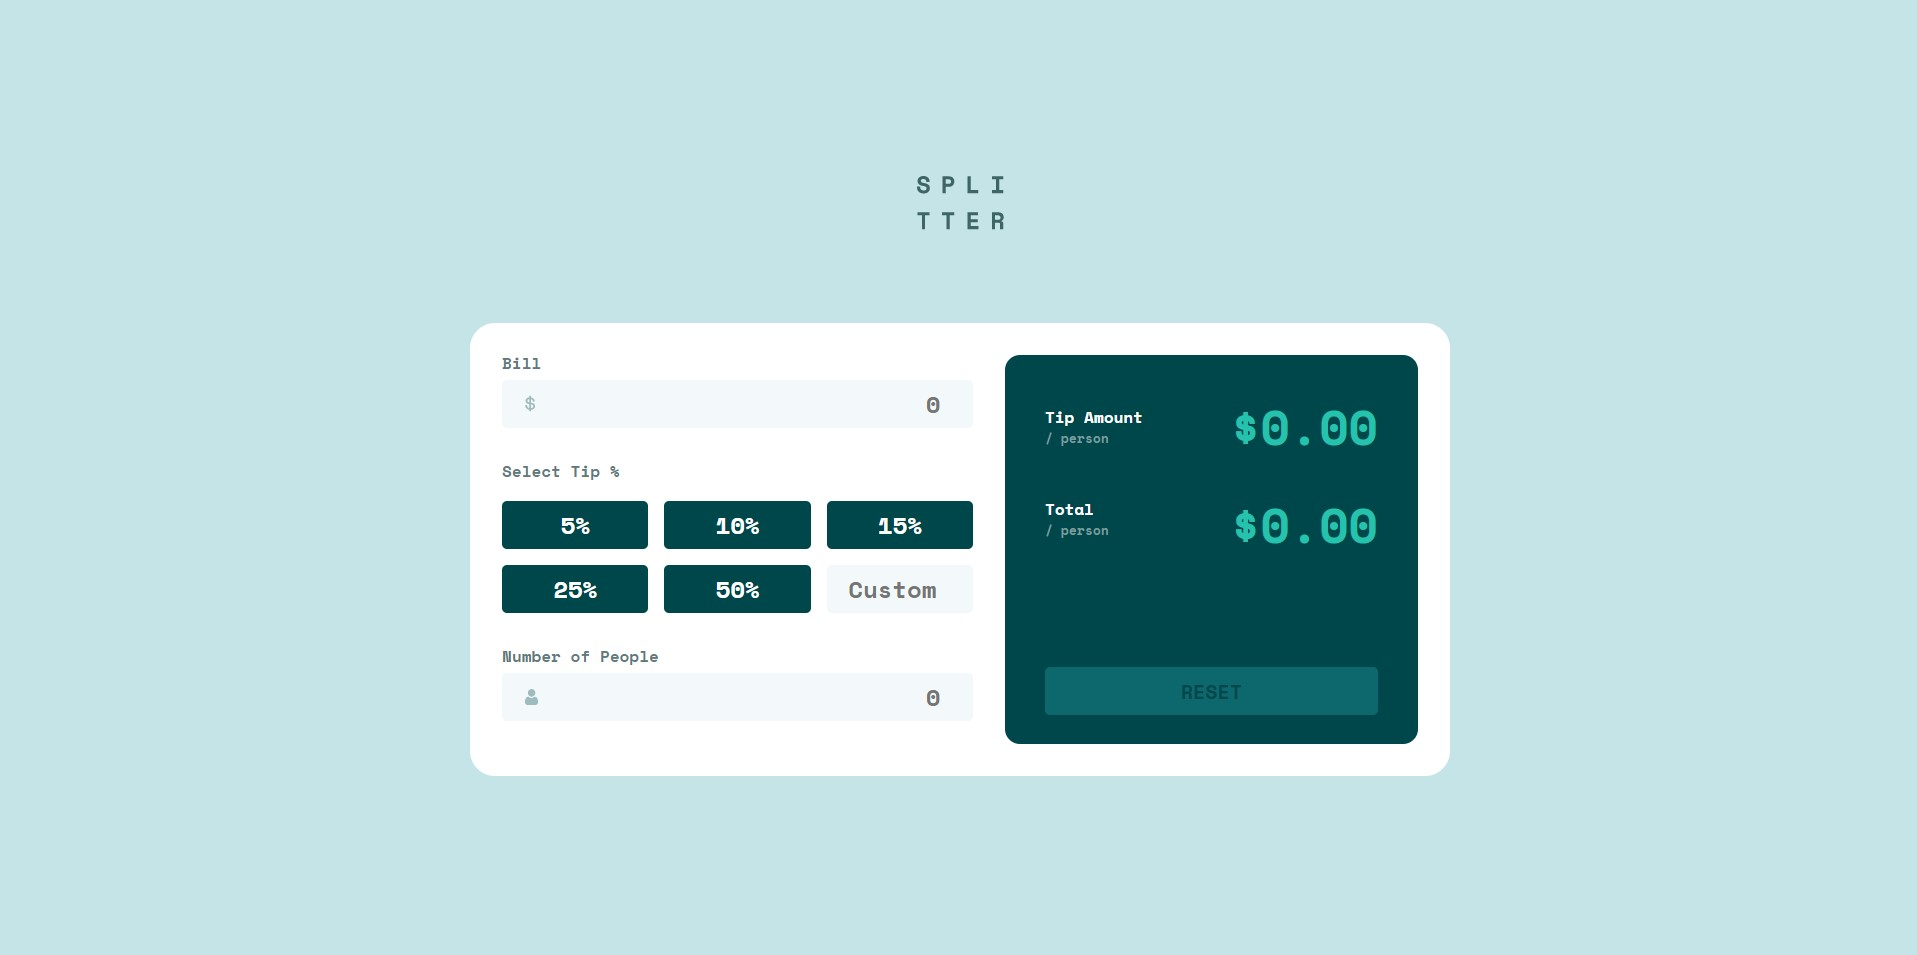
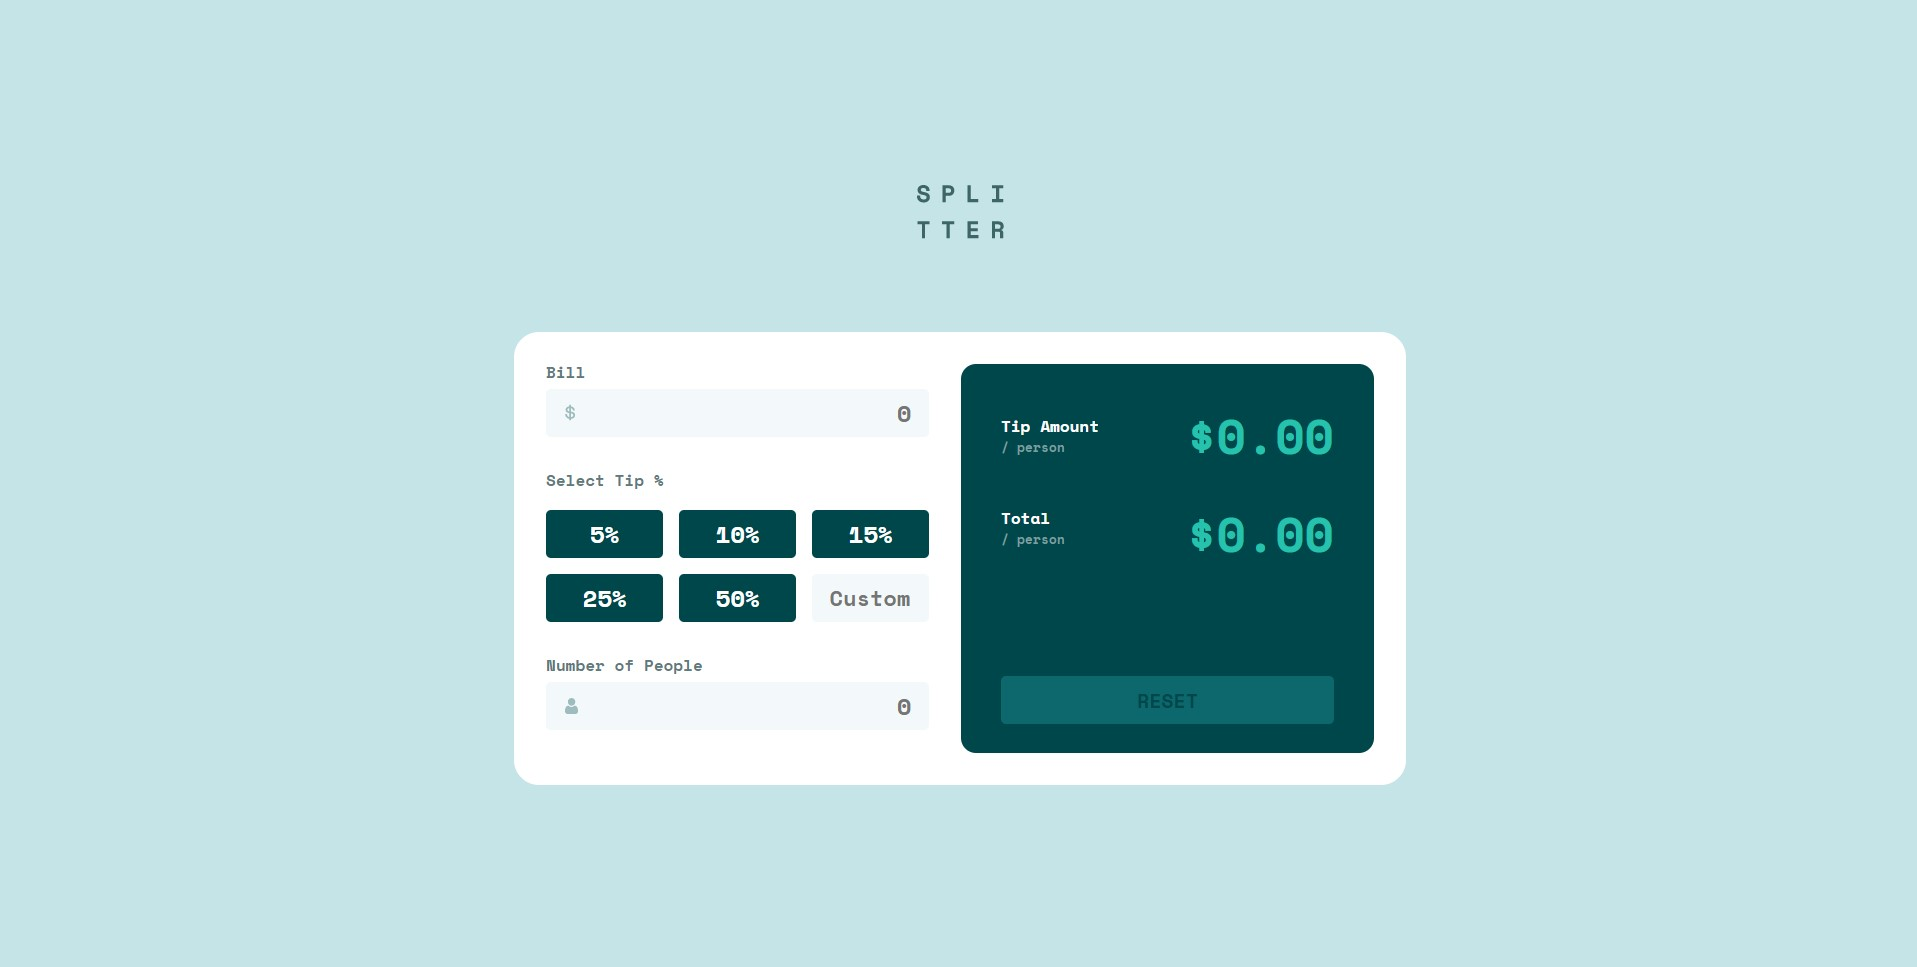
.

Changed region(s): [[0.2462, 0.334, 0.7694, 0.8199], [0.4617, 0.1822, 0.5232, 0.2429], [0.6155, 0.6984, 0.6463, 0.7288]]

diff --git a/tip-calculator-app-main/style.css b/tip-calculator-app-main/style.css
@@ -61,6 +61,16 @@ input:focus {
   outline: 3px solid #26c2ae;
 }
 
+input::-webkit-outer-spin-button,
+input::-webkit-inner-spin-button {
+  -webkit-appearance: none;
+  margin: 0;
+}
+
+input[type='number'] {
+  -moz-appearance: textfield;
+}
+
 .input-bill {
   background-image: url(images/icon-dollar.svg);
   background-repeat: no-repeat;
@@ -93,10 +103,9 @@ input:focus {
 }
 
 .btn--custom {
-  text-align: center;
   color: #00474b;
   background-color: #f3f9fa;
-  text-align: right;
+  text-align: center;
 }
 
 button:hover,

diff --git a/tip-calculator-app-main/queries.css b/tip-calculator-app-main/queries.css
@@ -46,4 +46,9 @@
   .btn {
     width: 11.7rem;
   }
+
+  .btn--custom {
+    text-align: left;
+    font-size: 2.2rem;
+  }
 }
